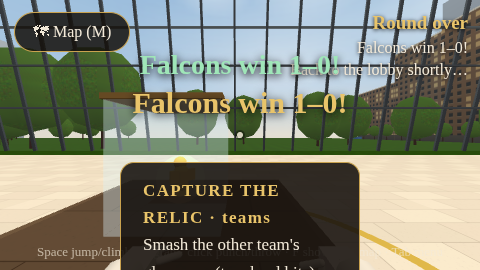
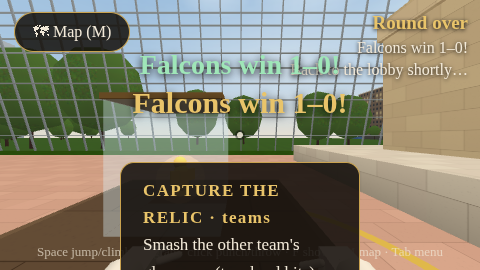
North court rebuilt as the Met's Temple of Dendur (Sackler Wing)
Temple with a two-column porch and worn corners, and its stone gate, on a pale
granite platform along an axis parallel to the slanted glass wall; long dark
reflecting pool with papyrus in front; two seated dark-granite pharaohs at the
end of the pool; pale-green laylight grid ceiling; pinkish granite floor.

Claude-Session: https://claude.ai/code/session_011No6nczeQGrtFrMJdAbwKn

diff --git a/client/src/world/build/exhibits.ts b/client/src/world/build/exhibits.ts
@@ -181,6 +181,27 @@ export function buildBlock(sink: Sink, b: Block) {
       break;
     }
     case 'statue': {
+      if (b.variant === 'pharaoh') {
+        // Seated pharaoh in dark granite (Sackler Wing), facing west toward the temple: base, throne,
+        // legs, torso, nemes headdress with lappets, face and beard.
+        const g = 0x3a3733, g2 = 0x45413c;
+        const fx = b.x0, bx = b.x1; // front (west) and back (east)
+        sink.box('stone', b.x0 - 0.05, b.y0, b.z0 - 0.05, b.x1 + 0.05, b.y0 + 0.3, b.z1 + 0.05, { tint: 0x2e2b28, collide });
+        sink.box('stone', bx - 0.55, b.y0 + 0.3, b.z0, bx, b.y0 + 1.55, b.z1, { tint: g, collide });   // throne
+        sink.box('stone', fx + 0.05, b.y0 + 0.3, cz - 0.42, bx - 0.5, b.y0 + 0.85, cz + 0.42, { tint: g2, collide }); // shins
+        sink.box('stone', fx + 0.3, b.y0 + 0.85, cz - 0.42, bx - 0.5, b.y0 + 1.15, cz + 0.42, { tint: g2 }); // lap
+        sink.box('stone', bx - 0.95, b.y0 + 1.15, cz - 0.38, bx - 0.45, b.y0 + 2.0, cz + 0.38, { tint: g2 }); // torso
+        sink.box('stone', bx - 0.98, b.y0 + 1.95, cz - 0.4, bx - 0.5, b.y0 + 2.15, cz + 0.4, { tint: 0x4d4843 }); // shoulders
+        sink.box('stone', bx - 1.05, b.y0 + 1.6, cz - 0.3, bx - 0.85, b.y0 + 2.05, cz - 0.12, { tint: 0x4a4540 }); // lappets
+        sink.box('stone', bx - 1.05, b.y0 + 1.6, cz + 0.12, bx - 0.85, b.y0 + 2.05, cz + 0.3, { tint: 0x4a4540 });
+        const head = new THREE.CylinderGeometry(0.17, 0.3, 0.55, 10);
+        head.translate(bx - 0.72, b.y0 + 2.42, cz);
+        sink.add('stone', head, undefined, { tint: 0x4a4540 });
+        sink.box('stone', bx - 0.95, b.y0 + 2.15, cz - 0.12, bx - 0.86, b.y0 + 2.48, cz + 0.12, { tint: 0x55504a }); // face
+        sink.box('stone', bx - 0.93, b.y0 + 1.98, cz - 0.05, bx - 0.86, b.y0 + 2.16, cz + 0.05, { tint: 0x3a3733 }); // beard
+        sink.collideBox(b.x0, b.y0, b.z0, b.x1, b.y1, b.z1);
+        break;
+      }
       // Seated colossus: throne, body, head with nemes headdress.
       sink.box('sandstone', b.x0, b.y0, b.z0, b.x1, b.y0 + h * 0.42, b.z1, { tint: 0x9b7a55, collide });
       sink.box('sandstone', b.x0 + w * 0.2, b.y0 + h * 0.42, b.z0 + d * 0.1, b.x1 - w * 0.2, b.y0 + h * 0.78, b.z1 - d * 0.1, { tint: 0xa8875f });
@@ -270,6 +291,21 @@ export function buildBlock(sink: Sink, b: Block) {
       break;
     }
     case 'planter': {
+      if (b.variant === 'papyrus') {
+        // A clump of papyrus growing in the pool: tall green stems fanning out, tufted heads.
+        const stems: THREE.BufferGeometry[] = [], heads: THREE.BufferGeometry[] = [];
+        for (let i = 0; i < 48; i++) {
+          const a = rand() * Math.PI * 2, lean = 0.08 + rand() * 0.35, len = 0.8 + rand() * (h - 0.6);
+          const stem = new THREE.CylinderGeometry(0.008, 0.012, len, 4).translate(0, len / 2, 0);
+          const m = new THREE.Matrix4().makeRotationY(a).multiply(new THREE.Matrix4().makeRotationZ(lean));
+          stems.push(stem.applyMatrix4(m));
+          const top = new THREE.Vector3(0, len, 0).applyMatrix4(m);
+          heads.push(new THREE.ConeGeometry(0.16, 0.18, 6).rotateX(Math.PI).translate(top.x, top.y, top.z));
+        }
+        for (const g of stems) sink.add('foliage', g, M(cx, b.y0, cz), { tint: 0x5f9a3c });
+        for (const g of heads) sink.add('foliage', g, M(cx, b.y0, cz), { tint: 0x7cbb4a });
+        break;
+      }
       const fl = flowers();
       sink.add('stone', fl.urn, M(cx, b.y0, cz).multiply(new THREE.Matrix4().makeScale(1.3, 1.3, 1.3)), { tint: 0xd8cdb8, collide });
       sink.add('foliage', fl.leaves, M(cx, b.y0, cz).multiply(new THREE.Matrix4().makeScale(1.3, 1.3, 1.3)), { tint: 0xb9d79a });
@@ -278,6 +314,39 @@ export function buildBlock(sink: Sink, b: Block) {
       break;
     }
     case 'temple': {
+      if (b.variant === 'pylon') {
+        // The Dendur gate: a single tall stone pylon (its long side across the temple's axis) with a
+        // doorway through it, a torus moulding and a flared cavetto cornice with a winged disc.
+        const t = 0xd3c3a4, d0 = cz - 0.65, d1 = cz + 0.65, top = b.y1 - 1.1;
+        sink.box('stone', b.x0, b.y0, b.z0, b.x1, top, d0, { tint: t, collide });
+        sink.box('stone', b.x0, b.y0, d1, b.x1, top, b.z1, { tint: t, collide });
+        sink.box('stone', b.x0, b.y0 + 4.2, d0, b.x1, top, d1, { tint: 0xcbbb9b, collide });          // lintel over the door
+        sink.box('stone', b.x0 - 0.1, top, b.z0 - 0.1, b.x1 + 0.1, top + 0.25, b.z1 + 0.1, { tint: 0xdccdb0 }); // torus
+        sink.box('stone', b.x0 - 0.35, top + 0.25, b.z0 - 0.35, b.x1 + 0.35, b.y1, b.z1 + 0.35, { tint: 0xd8c8aa }); // cornice
+        sink.box('plain', b.x1 + 0.36, top + 0.4, cz - 0.9, b.x1 + 0.4, top + 0.75, cz + 0.9, { tint: 0x9b8562 });  // winged disc
+        sink.box('stone', b.x1, b.y0 + 4.2, d0 - 0.1, b.x1 + 0.08, b.y0 + 4.4, d1 + 0.1, { tint: 0xc2b291 }); // door lintel band
+        break;
+      }
+      if (b.variant === 'dendur') {
+        // The temple: a porch with two columns facing the gate (east), then the sanctuary, its top
+        // corners worn into steps.
+        const t = 0xd0bf9e, porch = b.x1 - 2.4;
+        sink.box('stone', b.x0, b.y0, b.z0, porch, b.y1 - 0.7, b.z1, { tint: t, collide });
+        sink.box('stone', b.x0 - 0.15, b.y1 - 0.7, b.z0 - 0.15, porch, b.y1, b.z1 + 0.15, { tint: 0xdacaab });
+        // Porch: screen walls, roof and two columns with papyrus capitals.
+        sink.box('stone', porch, b.y0, b.z0, b.x1, b.y0 + 1.6, b.z0 + 1.0, { tint: t, collide });
+        sink.box('stone', porch, b.y0, b.z1 - 1.0, b.x1, b.y0 + 1.6, b.z1, { tint: t, collide });
+        sink.box('stone', porch, b.y1 - 1.2, b.z0, b.x1, b.y1 - 0.5, b.z1, { tint: 0xd6c6a6 });
+        for (const z of [cz - 1.1, cz + 1.1]) {
+          sink.add('stone', column(h - 1.2, 0.36, 'doric', 10), M(b.x1 - 0.6, b.y0, z), { tint: 0xd6c6a6, collide: false });
+          sink.collideBox(b.x1 - 1.0, b.y0, z - 0.4, b.x1 - 0.2, b.y1 - 1.2, z + 0.4);
+        }
+        // Worn, stepped ruin at the back corner.
+        for (let i = 0; i < 3; i++) sink.box('stone', b.x0 + i * 0.9, b.y1 - 0.7, b.z0 + i * 0.6, b.x0 + 2.7, b.y1 + 0.2 - i * 0.3, b.z0 + 2.2, { tint: 0xcab995 });
+        // Dark doorway into the sanctuary.
+        sink.box('plain', porch - 0.02, b.y0, cz - 0.6, porch + 0.02, b.y0 + 2.6, cz + 0.6, { tint: 0x2a2018 });
+        break;
+      }
       if (b.variant === 'gate') {
         // Gateway: two pylons with a lintel and cavetto cornice.
         sink.box('sandstone', b.x0, b.y0, b.z0, b.x0 + 1.1, b.y1, b.z1, { tint: 0xd6b07c, collide });
@@ -303,8 +372,9 @@ export function buildBlock(sink: Sink, b: Block) {
       sink.box('stone', b.x0, b.y0, b.z1 - rim, b.x1, b.y1, b.z1, { tint: 0xd8cfc0, collide });
       sink.box('stone', b.x0, b.y0, b.z0, b.x0 + rim, b.y1, b.z1, { tint: 0xd8cfc0, collide });
       sink.box('stone', b.x1 - rim, b.y0, b.z0, b.x1, b.y1, b.z1, { tint: 0xd8cfc0, collide });
-      sink.box('plain', b.x0 + rim, b.y0, b.z0 + rim, b.x1 - rim, b.y0 + 0.05, b.z1 - rim, { tint: 0x1d3a48 });
-      sink.box('water', b.x0 + rim, b.y1 - 0.12, b.z0 + rim, b.x1 - rim, b.y1 - 0.1, b.z1 - rim, { tint: 0x7fb3c7 });
+      const dark = b.variant === 'dark'; // the Sackler Wing's black, mirror-still pool
+      sink.box('plain', b.x0 + rim, b.y0, b.z0 + rim, b.x1 - rim, b.y0 + 0.05, b.z1 - rim, { tint: dark ? 0x0d1416 : 0x1d3a48 });
+      sink.box('water', b.x0 + rim, b.y1 - 0.12, b.z0 + rim, b.x1 - rim, b.y1 - 0.1, b.z1 - rim, { tint: dark ? 0x2a3b3e : 0x7fb3c7 });
       sink.collideBox(b.x0, b.y0, b.z0, b.x1, b.y1, b.z1);
       break;
     }

diff --git a/shared/src/map/museum.ts b/shared/src/map/museum.ts
@@ -57,7 +57,7 @@ const rooms: Room[] = [
     acoustic: 'gallery',
   }))),
   // Bases.
-  { id: 'northCourt', name: 'Temple Court', style: 'courtNorth', x0: -60, x1: 39, z0: -76, z1: -50, floorY: 0, ceilY: 20, acoustic: 'court', floorHoles: [{ x0: 22, x1: 26, z0: -73, z1: -61 }] },
+  { id: 'northCourt', name: 'The Temple of Dendur', style: 'courtNorth', x0: -60, x1: 39, z0: -76, z1: -50, floorY: 0, ceilY: 15, acoustic: 'court', floorHoles: [{ x0: 22, x1: 26, z0: -73, z1: -61 }] },
   { id: 'southCourt', name: 'Glass Court', style: 'courtSouth', x0: -60, x1: 39, z0: 50, z1: 76, floorY: 0, ceilY: 20, acoustic: 'court', floorHoles: [{ x0: 22, x1: 26, z0: 61, z1: 73 }] },
   // Service level.
   { id: 'stairN', name: 'North Service Stair', style: 'stairwell', x0: 22, x1: 26, z0: -73, z1: -61, floorY: -6, ceilY: 0, noCeiling: true, acoustic: 'service' },
@@ -178,7 +178,8 @@ const platforms: Platform[] = [
   { id: 'catLandE', room: 'dinoHall', x0: -8, x1: -5, z0: -50, z1: -46, y: F2, style: 'catwalk' },
   { id: 'catLandW', room: 'dinoHall', x0: -19, x1: -16, z0: 46, z1: 50, y: F2, style: 'catwalk' },
   // Courts: temple podium, mezzanines leading to the paintings upstairs.
-  { id: 'templePodium', room: 'northCourt', x0: 27, x1: 38.5, z0: -75.5, z1: -64, y: 1.2, solid: true, style: 'podium' },
+  // The Sackler Wing (after the Met): the temple's granite platform, its long axis parallel to the glass wall.
+  { id: 'dendurPlatform', room: 'northCourt', x0: -8, x1: 10, z0: -73, z1: -59, y: 1.0, solid: true, style: 'podium' },
   { id: 'mezzN', room: 'northCourt', x0: -60, x1: -30, z0: -54, z1: -50, y: F2, style: 'mezzanine' },
   { id: 'mezzS', room: 'southCourt', x0: -60, x1: -30, z0: 50, z1: 54, y: F2, style: 'mezzanine' },
   // Exterior terrace in front of the doors.
@@ -191,7 +192,7 @@ const stairs: Stair[] = [
   { id: 'catW', room: 'dinoHall', x0: -19, x1: -16, z0: 32, z1: 46, y0: 0, y1: F2, dir: '+z', style: 'metal' },
   { id: 'courtStairN', room: 'northCourt', x0: -30, x1: -16, z0: -54, z1: -50.5, y0: 0, y1: F2, dir: '-x', style: 'stone' },
   { id: 'courtStairS', room: 'southCourt', x0: -30, x1: -16, z0: 50.5, z1: 54, y0: 0, y1: F2, dir: '-x', style: 'stone' },
-  { id: 'templeSteps', room: 'northCourt', x0: 30, x1: 35, z0: -64, z1: -61.6, y0: 0, y1: 1.2, dir: '-z', style: 'stone' },
+  { id: 'dendurSteps', room: 'northCourt', x0: -2, x1: 6, z0: -59, z1: -56.6, y0: 0, y1: 1.0, dir: '-z', style: 'stone' },
   { id: 'svcStairN', room: 'stairN', x0: 22, x1: 26, z0: -73, z1: -61, y0: -6, y1: 0, dir: '-z', style: 'concrete' },
   { id: 'svcStairS', room: 'stairS', x0: 22, x1: 26, z0: 61, z1: 73, y0: -6, y1: 0, dir: '+z', style: 'concrete' },
   { id: 'frontSteps', room: 'exterior', x0: 42, x1: 50, z0: -16, z1: 16, y0: -2.4, y1: 0, dir: '-x', style: 'stone' },
@@ -322,12 +323,16 @@ const blocks: Block[] = [
   ...[20, 32].map((x, i) => B(`statueS${i}`, 'egyptN', 'statue', x, x + 1.2, -44.2, -43.6, 0, 3.0)),
 
   // North Court: temple, gateway, reflecting pool, relic pedestal, cover.
-  B('temple', 'northCourt', 'temple', 29, 37, -75, -69.5, 1.2, 8.2),
-  B('gateway', 'northCourt', 'temple', 31, 35, -66, -65, 1.2, 7, { variant: 'gate' }),
-  B('pool', 'northCourt', 'pool', 6, 18, -71, -64, 0, 0.45),
+  // The Temple of Dendur: the gate faces east across the reflecting pool; the temple stands behind it.
+  B('temple', 'northCourt', 'temple', -5, 3, -69.5, -62.5, 1.0, 6.6, { variant: 'dendur' }),
+  B('gateway', 'northCourt', 'temple', 6.4, 7.8, -67.8, -64.2, 1.0, 8.2, { variant: 'pylon' }),
+  B('pool', 'northCourt', 'pool', 10, 18, -72, -60, 0, 0.45, { variant: 'dark' }),
+  B('papyrus', 'northCourt', 'planter', 13, 14.5, -62.4, -60.9, 0.3, 1.8, { variant: 'papyrus', noCollide: true }),
+  // Two seated pharaohs in dark granite at the end of the pool, looking toward the temple.
+  B('pharaohN', 'northCourt', 'statue', 18.5, 19.8, -70.7, -69.3, 0, 2.7, { variant: 'pharaoh' }),
+  B('pharaohS', 'northCourt', 'statue', 18.5, 19.8, -62.7, -61.3, 0, 2.7, { variant: 'pharaoh' }),
   B('pedestalA', 'northCourt', 'plinth', -13, -11, -64, -62, 0, 1.0, { variant: 'relic' }),
   B('coverNA', 'northCourt', 'sculpture', -30, -27, -64, -61, 0, 1.6, { variant: 'lion' }),
-  B('coverNB', 'northCourt', 'obelisk', -1, 0.2, -66, -64.8, 0, 6.5),
 
   // South Court: monumental sculpture, carved poles, relic pedestal.
   B('pedestalB', 'southCourt', 'plinth', -13, -11, 62, 64, 0, 1.0, { variant: 'relic' }),
@@ -430,7 +435,7 @@ slots.push(
   // Sculpture Court and Modern.
   D('scStatue', 'sculptureCourt', 'statue', -28, 0, -8), D('moPainting', 'modern', 'painting', -50, 0, 31), D('moStatue', 'modern', 'statue', -30, 0, 45), D('moVase', 'modern', 'vase', -56, 0, 15),
   // Courts.
-  D('ncUrn', 'northCourt', 'urn', -40, 0, -60), D('ncStatue', 'northCourt', 'statue', -45, 0, -66), D('ncAmphora', 'northCourt', 'amphora', 2, 0, -58),
+  D('ncUrn', 'northCourt', 'urn', -40, 0, -60), D('ncStatue', 'northCourt', 'statue', -45, 0, -66), D('ncAmphora', 'northCourt', 'amphora', -20, 0, -58),
   // Upstairs: the European Paintings masterpieces, Asian Art, Musical Instruments.
   D('pEMaster', 'paintE2', 'masterpiece', -31.5, F2, -20), D('pWMaster', 'paintW4', 'masterpiece', -50.5, F2, 20),
   D('pWPainting', 'paintW2', 'painting', -50.5, F2, -20), D('pEPainting', 'paintE4', 'painting', -31.5, F2, 20),
@@ -482,7 +487,7 @@ const circuit: MuseumMap['circuit'] = {
   detours: [
     { from: 1, zone: 'closedEgypt', label: 'the closed Egyptian wing', path: [[33, 0, -24], [33, 0, -28], [32, 0, -31]] },
     { from: 2, zone: 'closedStair', label: 'the staff-only staircase', path: [[16, 0, -12], [13, 0, -7.5], [12, 0, -7], [9, 0, -9.5]] },
-    { from: 5, zone: 'closedNorthCourt', label: 'the closed Temple Court', path: [[-3.5, 0, -32], [-3.5, 0, -47], [-9, 0, -50], [-12, 0, -55.5]] },
+    { from: 5, zone: 'closedNorthCourt', label: 'the closed Temple of Dendur', path: [[-3.5, 0, -32], [-3.5, 0, -47], [-9, 0, -50], [-12, 0, -55.5]] },
     { from: 11, zone: 'closedSouthCourt', label: 'the closed Glass Court', path: [[-34, 0, 40], [-41, 0, 48], [-41, 0, 50], [-41, 0, 55.5]] },
   ],
 };
@@ -516,8 +521,8 @@ const ARTIFACT_SLOTS: [string, string, number, number, number, NonNullable<Slot[
   ['armsNorth', 'armsArmor', 10.5, -48, 0, 'obvious'],
   ['culturesPodium', 'cultures', 4.5, 39, 0.6, 'obvious'],
   ['culturesFloor', 'cultures', 5, 18.5, 0, 'obvious'],
-  ['northObelisk', 'northCourt', 0.8, -63, 0, 'obvious'],
-  ['northPodium', 'northCourt', 27.6, -66, 1.2, 'obvious'],
+  ['northPharaoh', 'northCourt', 20.8, -58.5, 0, 'obvious'],
+  ['northPlatform', 'northCourt', 9.2, -60, 1.0, 'obvious'],
   ['northLion', 'northCourt', -26.3, -62.5, 0, 'obvious'],
   ['southMonument', 'southCourt', 17.3, 60.7, 1.0, 'obvious'],
   ['southFloor', 'southCourt', -30, 66, 0, 'obvious'],

diff --git a/client/src/world/build/rooms.ts b/client/src/world/build/rooms.ts
@@ -265,36 +265,44 @@ export function buildRoom(r: Room, ctx: BuildCtx): { group: THREE.Group; collide
 
     case 'courtNorth': case 'courtSouth': {
       const north = r.style === 'courtNorth';
-      buildFloor(sink, r, 'stone', 0xf0e9dc);
+      // The Sackler Wing (north) has a polished pinkish granite floor.
+      buildFloor(sink, r, 'stone', north ? 0xcfa595 : 0xf0e9dc);
       const glassSide = north ? 'north' : 'south';
       buildWalls(sink, map, r, { mat: 'stone', tint: 0xf1e8d8, cornice: 16.5, corniceScale: 1.2, stringCourses: [6], trimMat: 'plaster', trimTint: 0xf3ebdc, skip: [glassSide] });
       // Slanted glass wall: mullions leaning outward, with park beyond.
       const zEdge = north ? r.z0 : r.z1, out = north ? -1 : 1;
-      for (let x = r.x0; x <= r.x1 + 1e-3; x += 3) {
-        const m = new THREE.BoxGeometry(0.18, Math.hypot(r.ceilY, 4), 0.3);
+      for (let x = r.x0; x <= r.x1 + 1e-3; x += north ? 1.8 : 3) {
+        const m = new THREE.BoxGeometry(north ? 0.09 : 0.18, Math.hypot(r.ceilY, 4), north ? 0.18 : 0.3);
         m.rotateX(out * -Math.atan2(4, r.ceilY));
         m.translate(x, r.ceilY / 2, zEdge + out * 2);
-        sink.add('plain', m, undefined, { tint: 0x3d4248 });
+        sink.add('plain', m, undefined, { tint: north ? 0x8a9196 : 0x3d4248 });
       }
-      for (let y = 4; y < r.ceilY; y += 4) {
-        const t = new THREE.BoxGeometry(r.x1 - r.x0, 0.14, 0.2);
+      for (let y = north ? 1.6 : 4; y < r.ceilY; y += north ? 1.6 : 4) {
+        const t = new THREE.BoxGeometry(r.x1 - r.x0, north ? 0.07 : 0.14, 0.2);
         t.translate((r.x0 + r.x1) / 2, y, zEdge + out * (y / r.ceilY) * 4);
-        sink.add('plain', t, undefined, { tint: 0x3d4248 });
+        sink.add('plain', t, undefined, { tint: north ? 0x8a9196 : 0x3d4248 });
       }
       const glass = new THREE.PlaneGeometry(r.x1 - r.x0, Math.hypot(r.ceilY, 4));
       glass.rotateX(out * -Math.atan2(4, r.ceilY));
       glass.translate((r.x0 + r.x1) / 2, r.ceilY / 2, zEdge + out * 2);
       sink.add('glass', glass, undefined, { tint: 0xd5ecf3 });
       sink.collideBox(r.x0, r.floorY, zEdge - (north ? 0.3 : 0), r.x1, r.ceilY, zEdge + (north ? 0 : 0.3));
-      // Glazed roof: grid of skylights.
       sink.box('plaster', r.x0, r.ceilY, r.z0, r.x1, r.ceilY + 0.4, r.z1, { tint: 0xe6ddd0 });
-      for (let x = r.x0 + 4; x < r.x1 - 4; x += 8) for (let z = r.z0 + 4; z < r.z1 - 3; z += 8) {
-        sink.box('emissive', x, r.ceilY - 0.02, z, x + 6, r.ceilY, z + 6, { tint: 0xf8fbfb });
+      if (north) {
+        // The Sackler Wing's ceiling: one great pale-green laylight crossed by a fine grid.
+        sink.box('emissive', r.x0, r.ceilY - 0.03, r.z0, r.x1, r.ceilY, r.z1, { tint: 0xe3eee8 });
+        for (let x = r.x0 + 1.5; x < r.x1; x += 1.5) sink.box('plain', x - 0.03, r.ceilY - 0.12, r.z0, x + 0.03, r.ceilY - 0.03, r.z1, { tint: 0x9aa7a2 }, 50);
+        for (let z = r.z0 + 3; z < r.z1; z += 3) sink.box('plain', r.x0, r.ceilY - 0.12, z - 0.03, r.x1, r.ceilY - 0.03, z + 0.03, { tint: 0x9aa7a2 }, 50);
+      } else {
+        // Glazed roof: grid of skylights.
+        for (let x = r.x0 + 4; x < r.x1 - 4; x += 8) for (let z = r.z0 + 4; z < r.z1 - 3; z += 8) {
+          sink.box('emissive', x, r.ceilY - 0.02, z, x + 6, r.ceilY, z + 6, { tint: 0xf8fbfb });
+        }
       }
       for (let x = r.x0 + 8; x < r.x1; x += 16) light.pools.push(pool(x, 0, (r.z0 + r.z1) / 2, 16, 0xfff6e8, 0.25));
-      const temple = blocks.find((b) => b.kind === 'temple' && !b.variant);
-      if (temple) extras.shafts.push({ top: V((temple.x0 + temple.x1) / 2, 19.5, temple.z1 + 4), bottom: V((temple.x0 + temple.x1) / 2, 1.2, temple.z1), radius: 2.2 });
-      buildPlatforms(sink, map, r.id, 'stone', 0xe7dccb, 'stone', 0xe7dccb);
+      // The temple platform is pale granite; light falls on it through the glass.
+      buildPlatforms(sink, map, r.id, 'stone', north ? 0xd9d3c9 : 0xe7dccb, 'stone', north ? 0xbdb5a8 : 0xe7dccb);
+      if (north) for (const b of blocks.filter((x) => x.kind === 'temple' || x.variant === 'pharaoh')) light.pools.push(pool((b.x0 + b.x1) / 2, b.y1 + 2, (b.z0 + b.z1) / 2, 9, 0xfff1d8, 0.45));
       buildStairs(sink, map, r.id, 'stone', 0xe5dac8);
       buildRails(sink, map, inRoom, 'stone', 0xe5dac8);
       // Capture zone ring around the relic pedestal.

diff --git a/client/src/debug/bookmarks.ts b/client/src/debug/bookmarks.ts
@@ -26,7 +26,8 @@ export const BOOKMARKS: Bookmark[] = [
   { id: 'egypt.mastaba', pos: [14, 1.65, -38.75], yaw: 270, pitch: 2 },
   { id: 'greek.hall', pos: [13.5, 1.65, 39], yaw: 270, pitch: 8 },
   { id: 'north.court', pos: [-12, 1.65, -51.5], yaw: 340, pitch: 10 },
-  { id: 'north.temple', pos: [10, 1.65, -55], yaw: 300, pitch: 8 },
+  { id: 'north.temple', pos: [21.3, 1.65, -66], yaw: 90, pitch: 4 },
+  { id: 'north.dendur', pos: [30, 1.65, -55], yaw: 62, pitch: 6 },
   { id: 'south.court', pos: [-12, 1.65, 51.5], yaw: 180, pitch: 10 },
   { id: 'service.corridor', pos: [24, -4.35, -40], yaw: 180, pitch: 0 },
 ];

diff --git a/docs/DECISIONS.md b/docs/DECISIONS.md
@@ -117,3 +117,5 @@ One paragraph per meaningful choice, with the reason. Deviations from the brief 
 
 **Paintings now hang at fixed spots.** Each wall gets evenly spaced spots of one size, and each artwork is fitted into its spot. Previously each artwork's size set the spacing, so the client and server couldn't agree on where the paintings were.
 
+
+**The north court is the Temple of Dendur (Sackler Wing).** It was rebuilt from the human's reference photos. The temple's axis runs parallel to the slanted glass wall, which looks out on the park. A pale granite platform carries the temple, with a two-column porch and worn, stepped corners, and the stone gate in front of it facing east. A long dark reflecting pool with a clump of papyrus lies in front of the gate, and two seated dark-granite pharaohs sit at the far end of the pool. The ceiling is the room's great pale-green laylight grid, the floor polished pinkish granite. The visitor approach is from the Egyptian galleries to the east, as at the Met. The ceiling came down from 20 m to 15 m. The Capture the Relic base, the routes and the service stair are unchanged. Two Artifact Hunt spots and one Insurance Fraud amphora moved off the new platform.

diff --git a/docs/PROGRESS.md b/docs/PROGRESS.md
@@ -205,7 +205,7 @@ Found and fixed during the pass:
 | Guards react only to strikes they see or hear close by (heavier tools carry further): first strike, they come to look; second, they chase. Break line of sight and they search, then return to patrol | bot, browser |
 | Caught: locked in the cells downstairs (barred gates on the security office), free to move inside; the gates open when your time is up. The basement is otherwise open | bot, browser |
 | Everything breakable: every painting on the gallery walls (≈180, small price tags by each frame, upstairs included) and the exhibits (knights, statues, sculptures, cases, sarcophagi, skeletons, the temple…) | unit, browser |
-| Temple room to match the Met | waiting for the human's map |
+| Temple room to match the Met: the Temple of Dendur (Sackler Wing) from the reference photos | screenshot (`north.temple`, `north.dendur`) |
 
 ## Known gaps and issues
 
